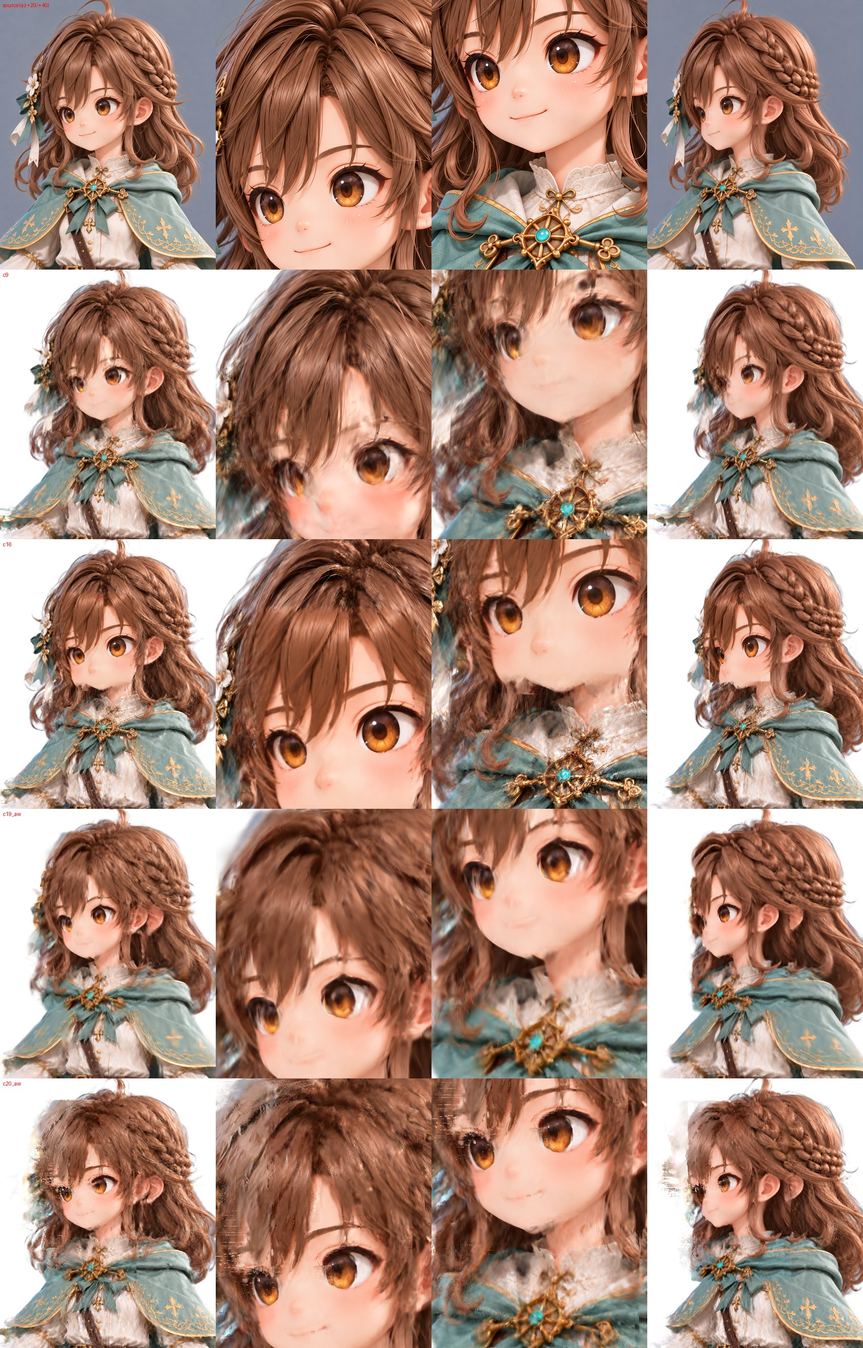
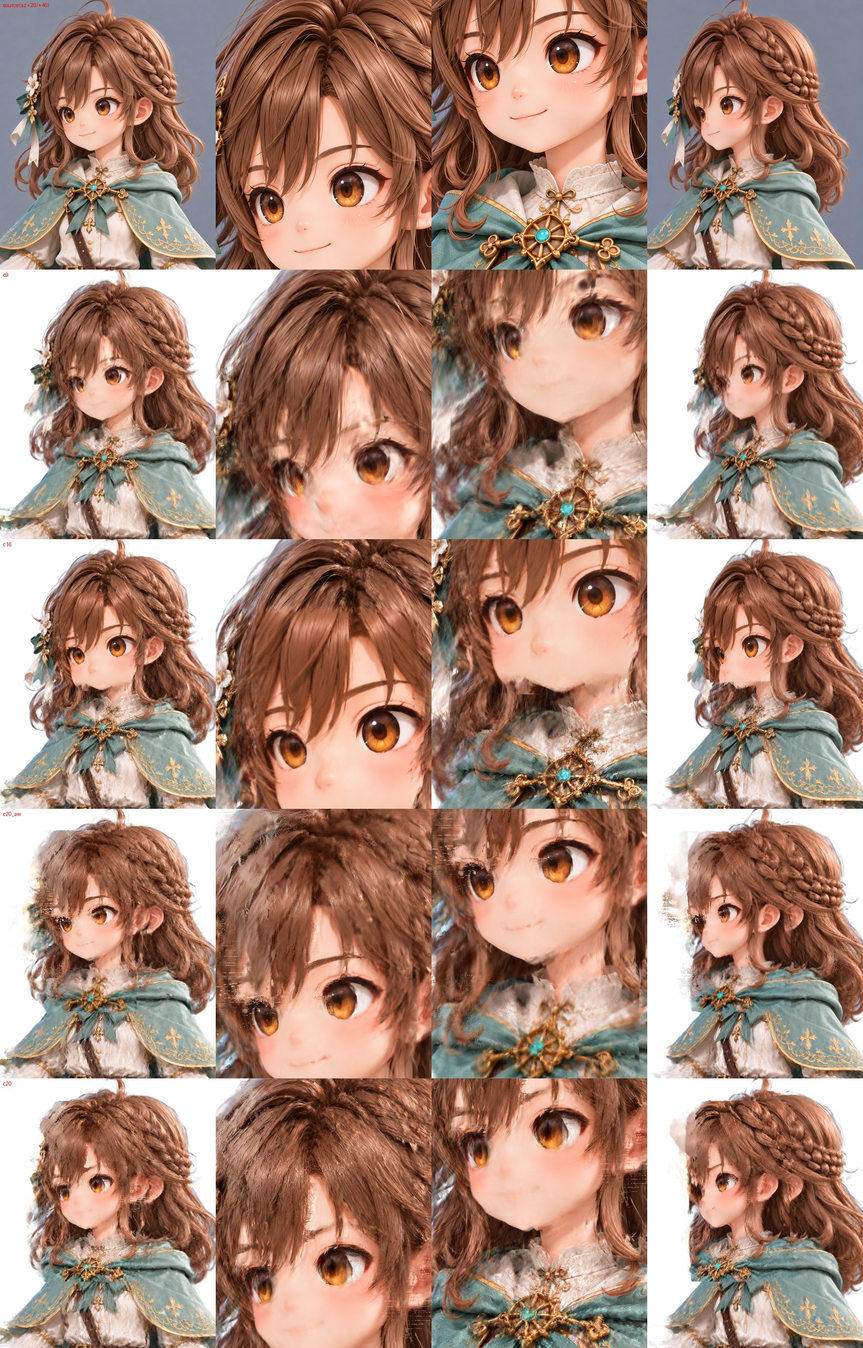
T11: c20の結果と、顔アップ高精細化の結論・次の候補を記録

Changed region(s): [[0.0, 0.5935, 1.0, 1.0]]

diff --git a/docs/11-multiview-3dgs.md b/docs/11-multiview-3dgs.md
@@ -184,4 +184,12 @@ wsl bash scripts/t11/train_gs_job.sh c15 c16_long --iters 40000 --grow_grad2d 0.
 わかったこと:
 - 「既知の窓を描き直させる」と、カメラを推定せずに寄り画像を足せる(c17の失敗原因は解消)。
 - しかし窓どうし・窓と顔アップの細部が食い違う限り、3DGSは平均化してぼかす。連鎖で揃えても、10°離れた2枚で髪の筋1本1本が一致するほどには揃わない。
+| c20 | c19のデータで30000回、点を増やす(361万点)、補正なし | c20_awと同程度。髪の筋は少し出るが、ノイズ・ぼけが残り、c16の目まわりにも及ばない([図](img/11-sr-c20.jpg)の最下段)。88分 |
+
 - 学習の当てはまり(学習視点のPSNR)は c20_aw で16.9と低い(c9は24.2)。データ同士が矛盾していることを示す。
+
+### 8.8 結論と次の候補(効果が大きいと見込む順)
+- 生成画像を教師にして1つの3DGSに当てはめる限り、教師どうしの細部の食い違いが平均化され、元画像の精細さには届かない(1枚だけなら0.94まで再現できることと矛盾しない)。寄り画像は、部位ごとに細部の揃った連鎖を作れた目まわり(c16)でだけ効いた。
+1. **見た目は元の生成画像から取る(画像ベース描画)。** 3DGSは形(深度)とおおまかな色だけに使い、描画時には近い2〜3枚の生成画像を3DGSの深度で今の視点へ投影して混ぜる。細部は生成画像そのものなので平均化されない。5°刻みの連鎖があれば切り替わりは小さいと見込む(未検証)。
+2. 3DGSを顔の領域ごとに分ける(目まわりは c16、それ以外は c9)。目は確実にくっきりするが、境目の処理が要る。
+3. メッシュ拘束ガウシアン(T9)にして、元画像を表面に投影したテクスチャを教師にする。形がずれない分、細部の食い違いが減ると見込む。
